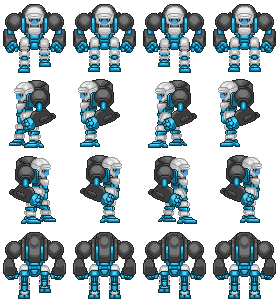
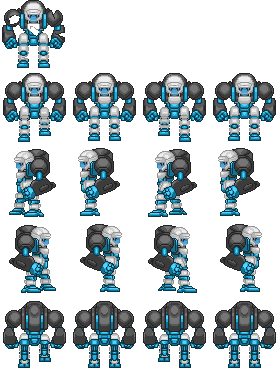
[ADD] More death animations

diff --git a/opengltest/Enemy.cpp b/opengltest/Enemy.cpp
@@ -155,6 +155,8 @@ Enemy::Enemy(ProjectileManager* projMan, EntityManager* entityMan, SpriteSheetIn
 		texture->addSpriteAnimRow(1, 0, 5*h+6, w + 1, 0, 7);
 		texture->addSpriteAnimRow(2, 0, 6*h+7, w + 1, 0, 7);
 		texture->addSpriteAnimRow(3, 0, 7*h+8, w + 1, 0, 7);
+
+		texture->addSpriteAnimFrame(8, 0, 714);
 	}
 	else if (entityType < -100)
 	{
@@ -175,10 +177,6 @@ Enemy::Enemy(ProjectileManager* projMan, EntityManager* entityMan, SpriteSheetIn
 		texture->loadSpriteSheet(filePath.c_str());
 		texture->setSpriteFrameSize(w, h);
 
-		texture->addSpriteAnimRow(4, 0, 1, w + 1, 0, 4);
-		texture->addSpriteAnimRow(5, 0, 48, w + 1, 0, 4);
-		texture->addSpriteAnimRow(6, 0, 95, w + 1, 0, 4);
-		texture->addSpriteAnimRow(7, 0, 142, w + 1, 0, 4);
 		texture->addSpriteAnimRow(0, 0, 189, w + 1, 0, 4);
 		texture->addSpriteAnimRow(1, 0, 236, w + 1, 0, 4);
 		texture->addSpriteAnimRow(2, 0, 283, w + 1, 0, 4);
@@ -202,16 +200,19 @@ Enemy::Enemy(ProjectileManager* projMan, EntityManager* entityMan, SpriteSheetIn
 		filePath.append(".png");
 		texture->loadSpriteSheet(filePath.c_str());
 		texture->setSpriteFrameSize(w, h);
-		//pewpewing
-		texture->addSpriteAnimRow(7, 0, 1, w + 1, 0, 4);
-		texture->addSpriteAnimRow(5, 0, h + 2, w + 1, 0, 4);
-		texture->addSpriteAnimRow(6, 0, 2 * h + 3, w + 1, 0, 4);
-		texture->addSpriteAnimRow(4, 0, 3 * h + 4, w + 1, 0, 4);
+
 		//walking
-		texture->addSpriteAnimRow(3, 0, 4 * h + 5, w + 1, 0, 4);
-		texture->addSpriteAnimRow(1, 0, 5 * h + 6, w + 1, 0, 4);
-		texture->addSpriteAnimRow(2, 0, 6 * h + 7, w + 1, 0, 4);
-		texture->addSpriteAnimRow(0, 0, 7 * h + 8, w + 1, 0, 4);
+		texture->addSpriteAnimRow(3, 0, 3 * h + 4, w + 1, 0, 4);
+		texture->addSpriteAnimRow(1, 0, 1 * h + 2, w + 1, 0, 4);
+		texture->addSpriteAnimRow(2, 0, 2 * h + 3, w + 1, 0, 4);
+		texture->addSpriteAnimRow(0, 0, 0 * h + 1, w + 1, 0, 4);
+
+		texture->addSpriteAnimRow(7, 0, 3 * h + 4, w + 1, 0, 4);
+		texture->addSpriteAnimRow(5, 0, 1 * h + 2, w + 1, 0, 4);
+		texture->addSpriteAnimRow(6, 0, 2 * h + 3, w + 1, 0, 4);
+		texture->addSpriteAnimRow(4, 0, 0 * h + 1, w + 1, 0, 4);
+
+		texture->addSpriteAnimFrame(8, 0, 302);
 	}
 	texture->setCurrentAnimation(0);
 
@@ -298,19 +299,36 @@ void Enemy::update(float dTime)
 	if (hp <= 0)
 	{
 		texture->setCurrentAnimation(8);
-		w = 52;
-		h = 30;
-		deathAnim -= dTime;
-		texture->setSpriteFrameSize(w, h);
-		state = state_dead;
-		w *= 0.5f;
-		h *= 0.5f;
 
-		if (entityType > 0 && entityType < 7)
+		if (entityType > 0 && entityType < 7 && hasItem)
 		{
+			DropItems();
+			hasItem = false;
 			MapLoader::instance()->SaveFriend(entityType);
-			TileManager::instance()->ReplaceTile(176, 16, STATIC, 176, 16, 16, 16, 305, 153, true);
+			TileManager::instance()->ReplaceTile(144, 32, STATIC, 176, 32, 16, 16, 305, 153, true);
+			TileManager::instance()->CreatePortal(STATIC, 144, 32, 16, 16, 305, 153, true, 0);
 		}
+		else if (entityType == BOSS)
+		{
+			w = 96;
+			h = 85;
+			texture->setCurrentAnimation(8);
+			texture->setSpriteFrameSize(w, h);
+			w *= 0.5f;
+			h *= 0.5;
+		}
+		else if (!(entityType > 0 && entityType < 7))
+		{
+			texture->setCurrentAnimation(8);
+			w = 52;
+			h = 30;
+			texture->setSpriteFrameSize(w, h);
+			w *= 0.5f;
+			h *= 0.5f;
+		}
+
+		deathAnim -= dTime;
+		state = state_dead;
 
 		if (hasItem)
 		{
